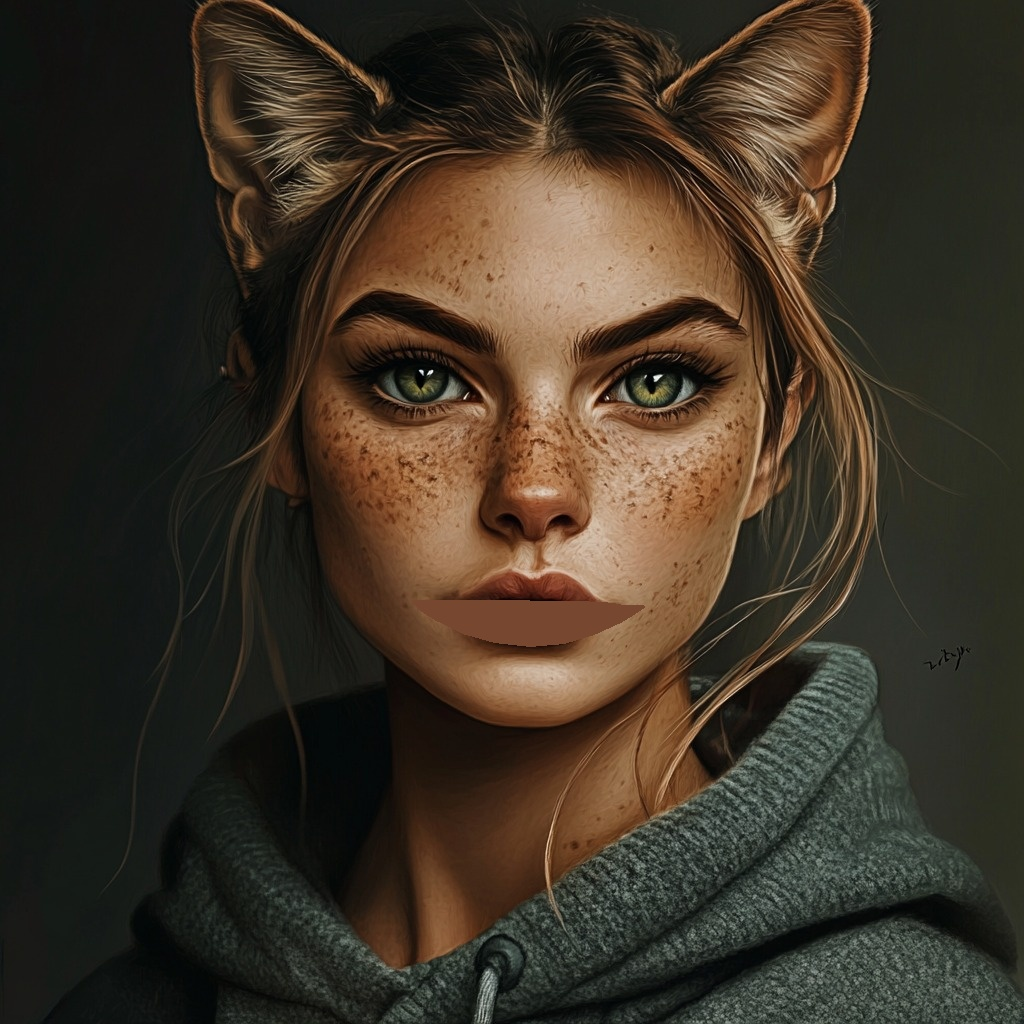
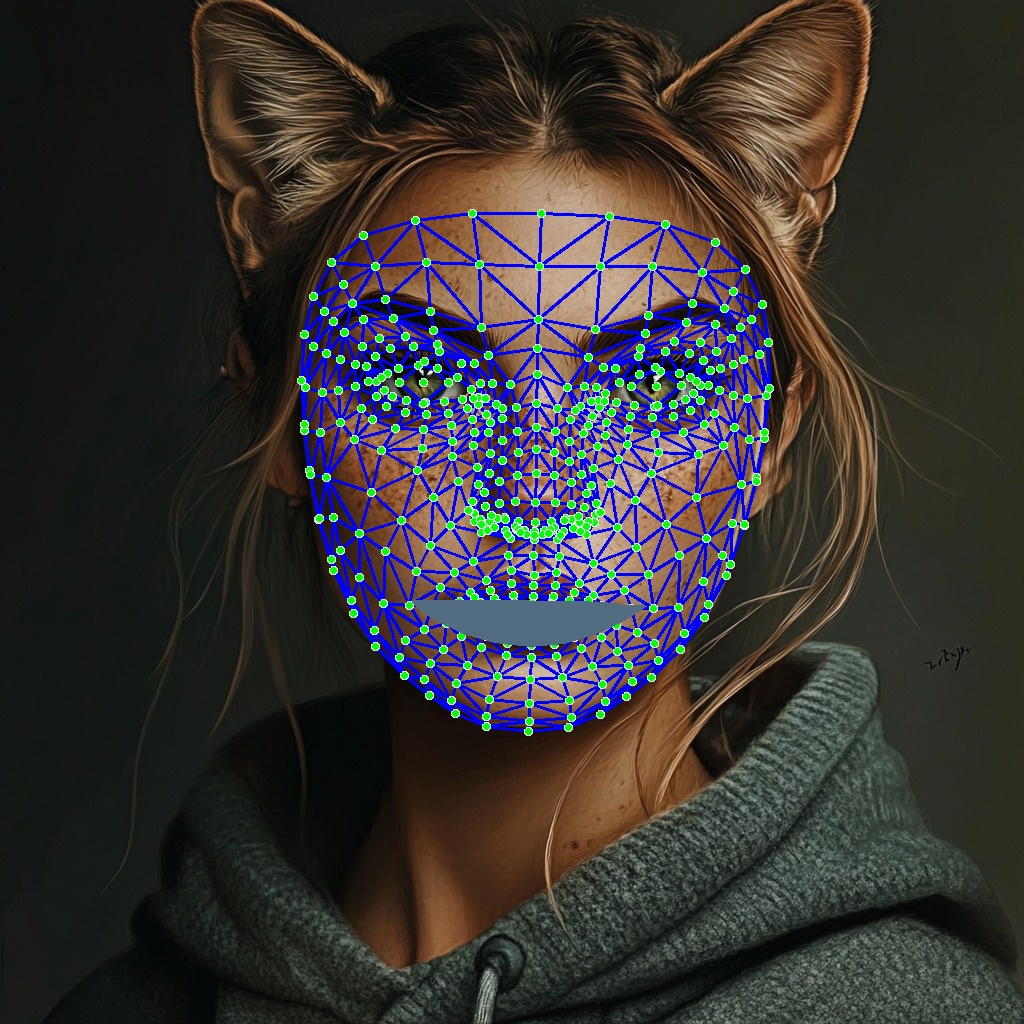
20.08 (14:44)

Changed region(s): [[0.2812, 0.1875, 0.7812, 0.7188]]

diff --git a/project3/catlike.py b/project3/catlike.py
@@ -1,0 +1,105 @@
+
+import cv2
+import mediapipe as mp
+import numpy as np
+
+# Initialize MediaPipe FaceMesh
+mp_face_mesh = mp.solutions.face_mesh
+face_mesh = mp_face_mesh.FaceMesh(
+    static_image_mode=True,
+    max_num_faces=1,
+    min_detection_confidence=0.5
+)
+
+# Initialize drawing utilities
+mp_drawing = mp.solutions.drawing_utils
+drawing_spec = mp_drawing.DrawingSpec(thickness=1, circle_radius=1)
+
+def create_feature_masks(frame, face_landmarks):
+    h, w, _ = frame.shape
+    landmarks = [(int(landmark.x * w), int(landmark.y * h)) for landmark in face_landmarks.landmark]
+
+    # Creating zeroed mask
+    mask = np.zeros((h, w), dtype=np.uint8)
+
+    # Indices for specific facial features
+    left_eye_indices = [33, 7, 163, 144, 145, 153, 154, 155, 133, 246]
+    right_eye_indices = [362, 382, 381, 380, 385, 386, 387, 388, 263, 466]
+    mouth_indices = [61, 78, 95, 88, 178, 87, 14, 317, 402, 318, 324, 308, 415, 310, 311, 312, 13]
+    nose_indices = [1, 2, 3, 4, 5, 6, 197, 195, 122, 96, 97, 98, 99, 240, 237, 220, 45]
+
+    all_indices = left_eye_indices + right_eye_indices + mouth_indices + nose_indices
+
+    # Create masks for the eyes, nose, and mouth
+    for indices in [left_eye_indices, right_eye_indices, mouth_indices, nose_indices]:
+        feature_points = np.array([landmarks[i] for i in indices])
+        hull = cv2.convexHull(feature_points)
+        cv2.fillConvexPoly(mask, hull, 255)
+
+    return mask
+
+def apply_animal_effect(frame, face_landmarks, effect_texture):
+    h, w, _ = frame.shape
+    landmarks = [(int(landmark.x * w), int(landmark.y * h)) for landmark in face_landmarks.landmark]
+
+    # Create a mask for the facial features (eyes, mouth, and nose)
+    feature_mask = create_feature_masks(frame, face_landmarks)
+
+    # Create a mask for the entire face
+    mask = np.zeros((h, w), dtype=np.uint8)
+
+    # Define indices for the face area, excluding key features
+    face_indices = list(set(range(len(landmarks))) - set(np.where(feature_mask != 0)[0]))
+
+    # Create convex hull for the face region
+    face_points = np.array([landmarks[i] for i in face_indices if i < len(landmarks)])
+    hull = cv2.convexHull(face_points)
+    cv2.fillConvexPoly(mask, hull, 255)
+
+    # Exclude the key features from the face mask
+    mask = cv2.bitwise_and(mask, cv2.bitwise_not(feature_mask))
+
+    # Create a texture mask for blending
+    effect_resized = cv2.resize(effect_texture, (w, h))
+    effect_applied = cv2.bitwise_and(effect_resized, effect_resized, mask=mask)
+
+    # Blend the effect with the original frame
+    frame = cv2.bitwise_and(frame, frame, mask=cv2.bitwise_not(mask))
+    frame = cv2.add(frame, effect_applied)
+
+    return frame
+
+def main(image_path, output_path, effect_texture_path):
+    # Load the image and effect texture
+    frame = cv2.imread(image_path)
+    effect_texture = cv2.imread(effect_texture_path)
+
+    if frame is None or effect_texture is None:
+        print("Error loading images.")
+        return
+
+    # Convert image to RGB
+    frame_rgb = cv2.cvtColor(frame, cv2.COLOR_BGR2RGB)
+
+    # Process the image to detect facial landmarks
+    results = face_mesh.process(frame_rgb)
+    
+    if results.multi_face_landmarks:
+        face_landmarks = results.multi_face_landmarks[0]
+        # Apply animal effect
+        result_frame = apply_animal_effect(frame, face_landmarks, effect_texture)
+
+        # Save the output image
+        if cv2.imwrite(output_path, result_frame):
+            print(f"Saved the output image to {output_path}")
+        else:
+            print(f"Error saving image to {output_path}")
+    else:
+        print("No face landmarks detected.")
+
+if __name__ == "__main__":
+    input_image_path = r"C:\Users\micha\Documents\PythonHW\project3-2\person.jpg"
+    output_image_path = r"C:\Users\micha\Documents\PythonHW\project3-2\output_person.jpg"  # Ensure this includes filename and extension
+    effect_texture_path = r"C:\Users\micha\Documents\PythonHW\project3-2\cat_texture.jpg"  # This should be a texture or pattern image
+
+    main(input_image_path, output_image_path, effect_texture_path)

diff --git a/project3/src/project3/cat_person_mesh/image_processing.py b/project3/src/project3/cat_person_mesh/image_processing.py
@@ -1,0 +1,73 @@
+# image_processing.py
+
+import cv2
+import numpy as np
+import mediapipe as mp
+from utils import get_lip_color
+
+def draw_face_mesh(frame, face_landmarks):
+    """
+    Draw face mesh on the image frame.
+
+    Args:
+        frame (numpy.ndarray): The image frame.
+        face_landmarks: Face landmarks from MediaPipe.
+    """
+    drawing_spec = mp.solutions.drawing_utils.DrawingSpec(thickness=2, circle_radius=2, color=(0, 255, 0))
+    connection_spec = mp.solutions.drawing_utils.DrawingSpec(thickness=2, color=(255, 0, 0))
+
+    mp.solutions.drawing_utils.draw_landmarks(
+        image=frame,
+        landmark_list=face_landmarks,
+        connections=mp.solutions.face_mesh.FACEMESH_TESSELATION,
+        landmark_drawing_spec=drawing_spec,
+        connection_drawing_spec=connection_spec
+    )
+    mp.solutions.drawing_utils.draw_landmarks(
+        image=frame,
+        landmark_list=face_landmarks,
+        connections=mp.solutions.face_mesh.FACEMESH_CONTOURS,
+        landmark_drawing_spec=drawing_spec,
+        connection_drawing_spec=connection_spec
+    )
+    mp.solutions.drawing_utils.draw_landmarks(
+        image=frame,
+        landmark_list=face_landmarks,
+        connections=mp.solutions.face_mesh.FACEMESH_IRISES,
+        landmark_drawing_spec=drawing_spec,
+        connection_drawing_spec=connection_spec
+    )
+
+def modify_smile(frame, face_landmarks, smile_factor, outer_lip_indices, inner_lip_indices):
+    """
+    Modify the smile on the image frame.
+
+    Args:
+        frame (numpy.ndarray): The image frame.
+        face_landmarks: Face landmarks from MediaPipe.
+        smile_factor (float): Factor by which to modify the smile.
+        outer_lip_indices (list): Indices for the outer lip landmarks.
+        inner_lip_indices (list): Indices for the inner lip landmarks.
+    """
+    h, w, _ = frame.shape
+    landmarks = [(int(landmark.x * w), int(landmark.y * h)) for landmark in face_landmarks.landmark]
+
+    for i in outer_lip_indices + inner_lip_indices:
+        landmarks[i] = (
+            landmarks[i][0] + int((landmarks[i][0] - landmarks[0][0]) * smile_factor),
+            landmarks[i][1] - int(abs(landmarks[i][0] - landmarks[0][0]) * smile_factor * 0.2)
+        )
+
+    outer_lip_hull = cv2.convexHull(np.array([landmarks[i] for i in outer_lip_indices]))
+    inner_lip_hull = cv2.convexHull(np.array([landmarks[i] for i in inner_lip_indices]))
+
+    lip_color = get_lip_color(frame, outer_lip_indices + inner_lip_indices, landmarks)
+    mask = np.zeros(frame.shape, dtype=np.uint8)
+    cv2.drawContours(mask, [outer_lip_hull], -1, (255, 255, 255), thickness=cv2.FILLED)
+    cv2.drawContours(mask, [inner_lip_hull], -1, (0, 0, 0), thickness=cv2.FILLED)
+
+    mask_bool = mask[:, :, 0] == 255
+    frame[mask_bool] = lip_color
+
+    cv2.drawContours(frame, [outer_lip_hull], -1, tuple(map(int, lip_color)), 2)
+    cv2.drawContours(frame, [inner_lip_hull], -1, tuple(map(int, lip_color)), 2)

diff --git a/project3/landmark_numbering.py b/project3/landmark_numbering.py
@@ -1,0 +1,71 @@
+import cv2
+import mediapipe as mp
+import os
+
+# Initialize MediaPipe FaceMesh
+mp_face_mesh = mp.solutions.face_mesh
+face_mesh = mp_face_mesh.FaceMesh(
+    static_image_mode=True,
+    max_num_faces=1,
+    min_detection_confidence=0.5
+)
+
+# Paths for input images and output directory
+path = "C:/Users/micha/Documents/PythonHW/project3-2/catperson images/"
+path_out = "C:/Users/micha/Documents/PythonHW/project3-2/landmark_numbering/"
+
+def detect_and_draw_face_mesh(image_path, output_path, scale_factor=1.0):
+    """
+    Detects facial landmarks in an image, numbers every sixth landmark, and saves the resized image.
+
+    Args:
+        image_path (str): Path to the input image.
+        output_path (str): Path to save the output image with numbered landmarks.
+        scale_factor (float): Factor by which to resize the output image.
+    """
+    # Load the image
+    image = cv2.imread(image_path)
+    if image is None:
+        print(f"Error loading image {image_path}")
+        return
+
+    image_rgb = cv2.cvtColor(image, cv2.COLOR_BGR2RGB)
+    
+    # Process the image to detect facial landmarks
+    results = face_mesh.process(image_rgb)
+
+    # Draw every sixth landmark's index on the image
+    if results.multi_face_landmarks:
+        for face_landmarks in results.multi_face_landmarks:
+            for idx, landmark in enumerate(face_landmarks.landmark):
+                # Draw every sixth landmark
+                if idx % 15 == 0:
+                    # Convert the landmark coordinates to pixel coordinates
+                    h, w, _ = image.shape
+                    x, y = int(landmark.x * w), int(landmark.y * h)
+                    
+                    # Draw the index number next to the landmark with smaller font
+                    cv2.putText(image, str(idx), (x, y), cv2.FONT_HERSHEY_SIMPLEX, 0.2, (0, 255, 0), 1, cv2.LINE_AA)
+                    
+                    # Optionally, draw a small circle at each landmark (commented out)
+                    # cv2.circle(image, (x, y), 2, (0, 255, 0), -1)
+
+    # Resize the image to make it significantly bigger
+    new_dim = (int(image.shape[1] * scale_factor), int(image.shape[0] * scale_factor))
+    resized_image = cv2.resize(image, new_dim, interpolation=cv2.INTER_LINEAR)
+
+    # Save the resized image with landmarks
+    if not cv2.imwrite(output_path, resized_image):
+        print(f"Error saving image with landmarks {output_path}")
+    else:
+        print(f"Saved the output image to {output_path}")
+
+# Process images
+for filename in os.listdir(path):
+    file_path = os.path.join(path, filename)
+    output_file_path = os.path.join(path_out, filename)
+
+    detect_and_draw_face_mesh(file_path, output_file_path, scale_factor=3.0)
+
+# Release resources
+face_mesh.close()

diff --git a/project3/src/project3/cat_person_mesh/main.py b/project3/src/project3/cat_person_mesh/main.py
@@ -1,0 +1,59 @@
+import cv2
+import os
+from face_mesh_setup import initialize_face_mesh
+from image_processing import draw_face_mesh, modify_smile
+
+# Initialize the MediaPipe Face Mesh solution
+face_mesh = initialize_face_mesh()
+
+# Paths for input images and output directories
+path = "C:/Users/micha/Documents/PythonHW/project3-2/project3/src/project3/cat_person_mesh/data"
+path_out_mesh = "C:/Users/micha/Documents/PythonHW/project3-2/project3/src/project3/cat_person_mesh/output/OutputFaceMesh"
+path_out_smile = "C:/Users/micha/Documents/PythonHW/project3-2/project3/src/project3/cat_person_mesh/output/OutputSmile"
+
+# Create directories if they don't exist
+os.makedirs(path_out_mesh, exist_ok=True)
+os.makedirs(path_out_smile, exist_ok=True)
+
+# Indices for outer and inner lips
+outer_lip_indices = [61, 146, 91, 181, 84, 17, 314, 405, 321, 375, 291]
+inner_lip_indices = [78, 95, 88, 178, 87, 14, 317, 402, 324, 318]
+smile_factor = 0.5
+
+# Process images
+for filename in os.listdir(path):
+    file_path = os.path.join(path, filename)
+    frame = cv2.imread(file_path)
+
+    if frame is None:
+        print(f"Error loading image {file_path}")
+        continue
+
+    frame_rgb = cv2.cvtColor(frame, cv2.COLOR_BGR2RGB)
+    results = face_mesh.process(frame_rgb)
+
+    if not results.multi_face_landmarks:
+        print(f"No face landmarks detected in {filename}")
+        continue
+
+    face_landmarks = results.multi_face_landmarks[0]
+
+    # **Save the original frame for smile modification**
+    frame_for_smile = frame.copy()
+
+    # Draw face mesh on the original frame and save the image
+    draw_face_mesh(frame, face_landmarks)
+    new_name_mesh = os.path.join(path_out_mesh, filename)
+    print(f"Saving face mesh image to: {new_name_mesh}")
+    if not cv2.imwrite(new_name_mesh, frame):
+        print(f"Error saving image with mesh {new_name_mesh}")
+
+    # Modify smile on the copied frame and save the image without the mesh
+    modify_smile(frame_for_smile, face_landmarks, smile_factor, outer_lip_indices, inner_lip_indices)
+    new_name_smile = os.path.join(path_out_smile, filename)
+    print(f"Saving smile image to: {new_name_smile}")
+    if not cv2.imwrite(new_name_smile, frame_for_smile):
+        print(f"Error saving image with smile {new_name_smile}")
+
+# Release resources
+face_mesh.close()

diff --git a/project3/src/project3/cat_person_mesh/utils.py b/project3/src/project3/cat_person_mesh/utils.py
@@ -1,0 +1,23 @@
+# utils.py
+
+import numpy as np
+import cv2
+
+def get_lip_color(frame, lip_indices, landmarks):
+    """
+    Extract the average lip color from the specified lip indices.
+
+    Args:
+        frame (numpy.ndarray): The image frame containing the face.
+        lip_indices (list): List of landmark indices defining the lip region.
+        landmarks (list): List of (x, y) landmark coordinates.
+
+    Returns:
+        tuple: The average BGR color of the lip region.
+    """
+    lip_points = np.array([landmarks[i] for i in lip_indices])
+    x_min, y_min = np.min(lip_points, axis=0)
+    x_max, y_max = np.max(lip_points, axis=0)
+    lip_region = frame[y_min:y_max, x_min:x_max]
+    avg_color = cv2.mean(lip_region)[:3]
+    return avg_color

diff --git a/project3/src/project3/cat_person_mesh/face_mesh_setup.py b/project3/src/project3/cat_person_mesh/face_mesh_setup.py
@@ -1,0 +1,18 @@
+# face_mesh_setup.py
+
+import mediapipe as mp
+
+def initialize_face_mesh():
+    """
+    Initialize the MediaPipe Face Mesh solution with specific parameters.
+    
+    Returns:
+        FaceMesh: Initialized MediaPipe FaceMesh object.
+    """
+    mp_face_mesh = mp.solutions.face_mesh
+    return mp_face_mesh.FaceMesh(
+        static_image_mode=True,
+        max_num_faces=1,
+        refine_landmarks=True,
+        min_detection_confidence=0.5
+    )
